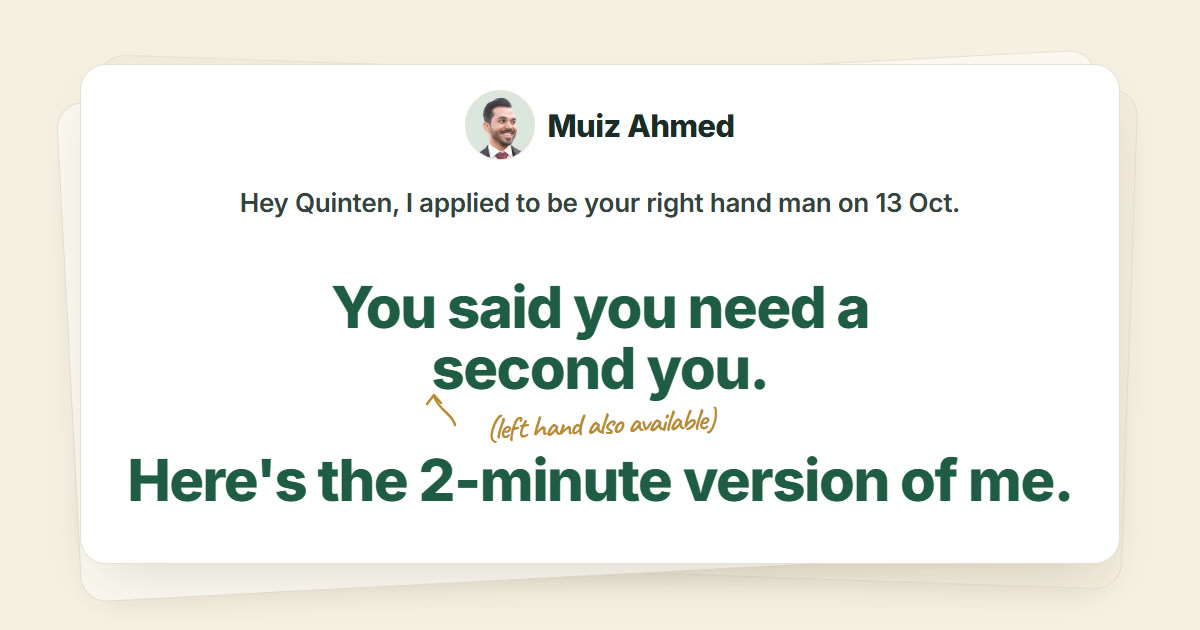
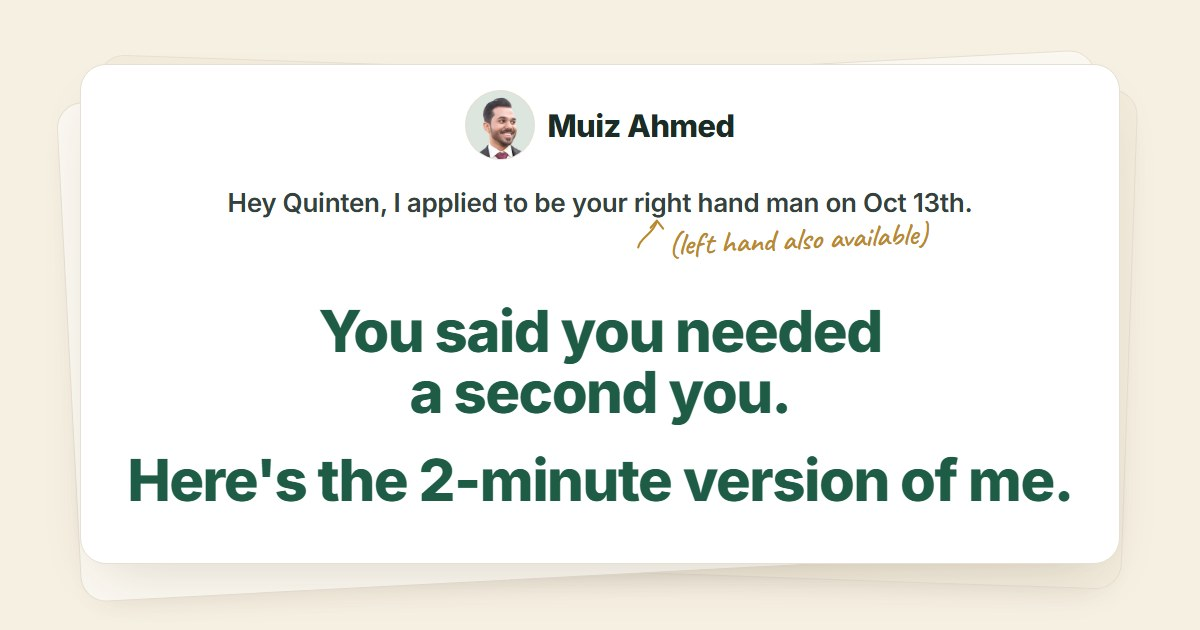
Quinten page: note on right hand man, Oct 13th, cards match Info Elevate

Changed region(s): [[0.2467, 0.4524, 0.74, 0.6937], [0.185, 0.3016, 0.8017, 0.4222], [0.4625, 0.181, 0.6167, 0.2111]]

diff --git a/for-quinten-gish/index.html b/for-quinten-gish/index.html
@@ -16,7 +16,7 @@
 <meta property="og:image:type" content="image/jpeg">
 <meta property="og:image:width" content="1200">
 <meta property="og:image:height" content="630">
-<meta property="og:image:alt" content="Muiz Ahmed: You said you need a second you. Here’s the 2-minute version of me.">
+<meta property="og:image:alt" content="Muiz Ahmed: You said you needed a second you. Here’s the 2-minute version of me.">
 <meta name="twitter:card" content="summary_large_image">
 <meta name="twitter:title" content="Muiz Ahmed for United Motion">
 <meta name="twitter:description" content="A 2-minute intro and the work I sent with my application.">
@@ -212,21 +212,23 @@
   .hero h1 { text-wrap: balance; }
   .hero h1 .h1-a, .hero h1 .h1-b { display: block; }
   .hero h1 .h1-a { font-size: max(19px, 0.42em); font-weight: 600; letter-spacing: -0.01em; line-height: 1.3; color: #33423C; text-wrap: balance; }
-  .hero h1 .h1-b { margin-top: 0.78em; }
+  .hero h1 .h1-b { margin-top: 1.05em; } /* room for the margin note hanging under "right hand man" */
   .hero h1 em { font-style: italic; padding-right: 0.04em; }
   /* handwritten margin note on "some"; absolutely placed so it never changes the H1's line breaks */
   .some { position: relative; white-space: nowrap; }
   .hero h1 .l1, .hero h1 .l2, .hero h1 .l3 { display: block; }
   .hero h1 .l1 { white-space: nowrap; }
-  .hero h1 .l3 { margin-top: 0.98em; }
+  .hero h1 .l3 { margin-top: 0.5em; }
   .hero h1 .l1 + .l2 { margin-top: 0.02em; }
-  /* handwritten margin note: hangs under "second you." (its own line, so it never overlaps other text) and points up at it */
-  .note { position: absolute; left: 50%; top: 100%; width: 0; height: 0; pointer-events: none; color: var(--gold); -webkit-text-fill-color: var(--gold); }
-  .note-arrow { position: absolute; left: -160px; top: -9px; width: 40px; height: 36px; overflow: visible; }
+  /* handwritten margin note: hangs under the start of "right hand man" in the lead-in (in the gap above the green lines) and points up at it;
+     pinned to the left edge of the phrase so it lines up wherever the lead-in wraps */
+  .rhm { position: relative; white-space: nowrap; }
+  .note { position: absolute; left: 0; top: 100%; width: 0; height: 0; pointer-events: none; color: var(--gold); -webkit-text-fill-color: var(--gold); }
+  .note-arrow { position: absolute; left: -4px; top: 0; width: 34px; height: 30px; overflow: visible; transform: scaleX(-1); }
   .note-text {
-    position: absolute; left: 0; top: 6px; transform: translateX(-50%) rotate(-2.5deg); transform-origin: center;
+    position: absolute; left: 32px; top: 11px; transform: rotate(-2.5deg); transform-origin: left center;
     font-family: "Caveat", "Segoe Print", "Bradley Hand", cursive; font-weight: 600; font-style: normal;
-    font-size: 27px; line-height: 1; letter-spacing: 0; white-space: nowrap;
+    font-size: 25px; line-height: 1; letter-spacing: 0; white-space: nowrap;
   }
   .hero-ctas { display: flex; flex-wrap: nowrap; justify-content: center; gap: 12px; margin-top: 44px; }
   @media (max-width: 520px) { .hero-ctas { flex-wrap: wrap; gap: 10px; } }
@@ -417,8 +419,8 @@
 
   /* ---------- small screens ---------- */
   @media (max-width: 640px) {
-    .note-arrow { left: -116px; top: -5px; width: 28px; height: 26px; }
-    .note-text { top: 5px; font-size: 20px; }
+    .note-arrow { left: -2px; top: 0; width: 26px; height: 23px; }
+    .note-text { left: 26px; top: 8px; font-size: 19px; }
     .wrap { padding: 0 16px; }
     .nav { top: 12px; left: 12px; right: 12px; padding: 6px 6px 6px 6px; }
     .hero { padding: 104px 0 48px; }
@@ -435,8 +437,8 @@
     .hook-label { font-size: 11px; letter-spacing: 0.06em; border-radius: 18px; text-wrap: balance; }
     .work { padding: 56px 0 80px; }
     .close { padding: 76px 0 84px; }
-    .hero h1 .h1-b { margin-top: 1.3em; }
-    .hero h1 .l3 { margin-top: 1.7em; }
+    .hero h1 .h1-b { margin-top: 1.75em; }
+    .hero h1 .l3 { margin-top: 0.6em; }
     .hero h1 { font-size: clamp(24px, 7.4vw, 66px); }
     .hero-ctas { margin-top: 36px; }
     .case { padding: 26px 24px 24px; }
@@ -477,7 +479,7 @@
     <div class="wrap">
       <div class="paper-stack">
       <div class="paper">
-      <h1 class="reveal"><span class="h1-a">Hey Quinten, I applied to be your right hand man on 13&nbsp;Oct.</span> <span class="grad h1-b"><span class="l1">You said you need a</span> <span class="l2 some">second you.<span class="note" aria-hidden="true"><svg class="note-arrow" viewBox="0 0 40 36" fill="none" stroke="currentColor" stroke-width="2.4" stroke-linecap="round" stroke-linejoin="round"><path class="draw" pathLength="1" d="M31 33 C 29 22, 14 18, 10 4"/><path class="draw" pathLength="1" d="M3 12 L 10 3 L 17 11"/></svg><span class="note-text">(left hand also available)</span></span></span> <span class="l3">Here's the 2-minute version of me.</span></span></h1>
+      <h1 class="reveal"><span class="h1-a">Hey Quinten, I applied to be your <span class="rhm">right hand man<span class="note" aria-hidden="true"><svg class="note-arrow" viewBox="0 0 40 36" fill="none" stroke="currentColor" stroke-width="2.4" stroke-linecap="round" stroke-linejoin="round"><path class="draw" pathLength="1" d="M31 33 C 29 22, 14 18, 10 4"/><path class="draw" pathLength="1" d="M3 12 L 10 3 L 17 11"/></svg><span class="note-text">(left hand also available)</span></span></span> on Oct&nbsp;13th.</span> <span class="grad h1-b"><span class="l1">You said you needed</span> <span class="l2">a second you.</span> <span class="l3">Here's the 2-minute version of me.</span></span></h1>
       <div class="hero-ctas reveal">
         <a class="btn btn-primary" href="#intro">Watch my 2-min Loom
           <svg viewBox="0 0 24 24" fill="currentColor" aria-hidden="true"><path d="M7 4.5v15l13-7.5z"/></svg>
@@ -534,7 +536,7 @@
     <div class="wrap">
       <div class="section-head reveal">
         <h2>Find my application <span class="grad">in 10 seconds.</span></h2>
-        <p class="sub">In your form responses, search for <strong class="find">Muiz Ahmed</strong>. <span class="nowrap">Submitted 13 Oct 2026.</span></p>
+        <p class="sub">In your form responses, search for <strong class="find">Muiz Ahmed</strong>. <span class="nowrap">Submitted Oct 13th, 2026.</span></p>
       </div>
       <figure class="hook reveal">
         <p class="hook-label">One of my 3 hooks for your $47 car rental course:</p>
@@ -553,15 +555,15 @@
 
       <div class="cases">
 
-        <!-- CARD 1: Lepus Prop, in-person event funnel (content from the template's Prop Firm Ready card, whose doc this is) -->
+        <!-- CARD 3: Email sequence, Prop Firm Ready (filled; ticket icon in the circle) -->
         <article class="case reveal">
           <div class="case-head">
-            <span class="initials"><img src="assets/lepus-logo.webp" srcset="assets/lepus-logo.webp 1x, assets/lepus-logo@2x.webp 2x" width="48" height="48" alt="Lepus Prop logo"></span>
+            <span class="initials" aria-hidden="true"><svg class="initials-icon" viewBox="0 0 24 24" fill="none" stroke="currentColor" stroke-width="1.8" stroke-linecap="round" stroke-linejoin="round"><path d="M3 7a2 2 0 0 1 2-2h14a2 2 0 0 1 2 2v2.5a2.5 2.5 0 0 0 0 5V17a2 2 0 0 1-2 2H5a2 2 0 0 1-2-2v-2.5a2.5 2.5 0 0 0 0-5z"/><path d="M15 7.5v9" stroke-dasharray="1.6 2.2"/></svg></span>
             <div class="case-who">
-              <p class="case-client">Lepus Prop</p>
-              <p class="case-niche">Prop Firm Ready&nbsp;&middot; <span class="nowrap">Melbourne Business School Event</span></p>
+              <p class="case-client">Prop Firm Ready</p>
+              <p class="case-niche">Melbourne Business School Event&nbsp;&middot; <span class="nowrap">via Lepus Prop</span></p>
             </div>
-            <span class="tag">Event Funnel</span>
+            <span class="tag">Email Sequence</span>
           </div>
           <span class="num grad" data-count="19.48" data-suffix="%">19.48%</span>
           <p class="statement">19.48% CTR on promo for in-person event</p>
@@ -571,7 +573,7 @@
             <li><svg viewBox="0 0 24 24" fill="none" stroke="currentColor" stroke-width="2.6" stroke-linecap="round" stroke-linejoin="round" aria-hidden="true"><path d="M5 12.5l4.5 4.5L19 7.5"/></svg>VIP tickets sold at up to AU$1,599 each</li>
           </ul>
           <div class="case-actions">
-            <a class="btn btn-primary copy-link" href="https://docs.google.com/document/d/1tKl62Nn7VwCv3D169xrN3qZo-jYXjG1fpx11b6j4qWI/edit" target="_blank" rel="noopener">See the Full Copy Doc
+            <a class="btn btn-primary copy-link" href="https://docs.google.com/document/d/1tKl62Nn7VwCv3D169xrN3qZo-jYXjG1fpx11b6j4qWI/edit?usp=sharing" target="_blank" rel="noopener">See the Full Copy Doc
               <svg viewBox="0 0 24 24" fill="none" stroke="currentColor" stroke-width="2.2" stroke-linecap="round" stroke-linejoin="round" aria-hidden="true"><path d="M7 17L17 7M9 7h8v8"/></svg>
             </a>
             <a class="btn btn-glass winning-ad" href="https://app.foreplay.co/share/ads/Rvcmz2mYDZwq4pyheMDg?user=ZBYG0mxYQSMa82dmQ5a3ll3AILu2" target="_blank" rel="noopener">My Winning Ad
@@ -580,7 +582,7 @@
           </div>
         </article>
 
-        <!-- CARD 2: Reality Cheque, founder-led statics (content from the template's Reality Cheque card, same doc) -->
+        <!-- CARD 2: Paid ads, Reality Cheque (filled) -->
         <article class="case reveal">
           <div class="case-head">
             <span class="initials"><img src="assets/rc-logo.webp" srcset="assets/rc-logo.webp 1x, assets/rc-logo@2x.webp 2x" width="48" height="48" alt="Reality Cheque logo"></span>
@@ -598,7 +600,7 @@
             <li><svg viewBox="0 0 24 24" fill="none" stroke="currentColor" stroke-width="2.6" stroke-linecap="round" stroke-linejoin="round" aria-hidden="true"><path d="M5 12.5l4.5 4.5L19 7.5"/></svg>Up to $100K in max revenue potential on the backend</li>
           </ul>
           <div class="case-actions">
-            <a class="btn btn-primary copy-link" href="https://docs.google.com/document/d/1Y_Md4IFZPUensAd-pMZE1Zz9Jwjr9vDSgDDmNVB9m_Y/edit" target="_blank" rel="noopener">See the Full Copy Doc
+            <a class="btn btn-primary copy-link" href="https://docs.google.com/document/d/1Y_Md4IFZPUensAd-pMZE1Zz9Jwjr9vDSgDDmNVB9m_Y/edit?usp=sharing" target="_blank" rel="noopener">See the Full Copy Doc
               <svg viewBox="0 0 24 24" fill="none" stroke="currentColor" stroke-width="2.2" stroke-linecap="round" stroke-linejoin="round" aria-hidden="true"><path d="M7 17L17 7M9 7h8v8"/></svg>
             </a>
             <a class="btn btn-glass live-ads" href="https://app.foreplay.co/share/boards/an5cKodP2fsMaesufx4S" target="_blank" rel="noopener">Live Ads
@@ -607,7 +609,7 @@
           </div>
         </article>
 
-        <!-- CARD 3 (bonus, not sent with the form): Lepus Prop STEP ONE webinar funnel (content from the Info Elevate card) -->
+        <!-- CARD 1: Webinar funnel, Lepus Prop Trading (filled) -->
         <article class="case reveal">
           <div class="case-head">
             <span class="initials"><img src="assets/lepus-logo.webp" srcset="assets/lepus-logo.webp 1x, assets/lepus-logo@2x.webp 2x" width="48" height="48" alt="Lepus Prop logo"></span>
@@ -625,7 +627,7 @@
             <li><svg viewBox="0 0 24 24" fill="none" stroke="currentColor" stroke-width="2.6" stroke-linecap="round" stroke-linejoin="round" aria-hidden="true"><path d="M5 12.5l4.5 4.5L19 7.5"/></svg>Bulk send promo emails and post-booking sequence</li>
           </ul>
           <div class="case-actions">
-            <a class="btn btn-primary copy-link" href="https://docs.google.com/document/d/1nbfuKC6OdCFZnc6pI__Isosu8rVg2F3lPJm0eJG5Myk/edit" target="_blank" rel="noopener">See the Full Copy Doc
+            <a class="btn btn-primary copy-link" href="https://docs.google.com/document/d/1nbfuKC6OdCFZnc6pI__Isosu8rVg2F3lPJm0eJG5Myk/edit?usp=sharing" target="_blank" rel="noopener">See the Full Copy Doc
               <svg viewBox="0 0 24 24" fill="none" stroke="currentColor" stroke-width="2.2" stroke-linecap="round" stroke-linejoin="round" aria-hidden="true"><path d="M7 17L17 7M9 7h8v8"/></svg>
             </a>
             <a class="btn btn-glass live-page" href="https://events.lepusproprietarytrading.com.au/step-one" target="_blank" rel="noopener">Live Page
@@ -643,7 +645,7 @@
   <!-- 5. Close -->
   <section class="close" id="contact">
     <div class="wrap">
-      <h2 class="reveal">Got <span class="grad">15 minutes</span> this week?</h2>
+      <h2 class="reveal">Came all the way down here? <span class="grad">You must want more.</span></h2>
       <div class="close-ctas reveal">
         <a class="btn btn-primary btn-lg close-book" href="https://calendar.app.google/YrUKNZmkdkYGUbTP8" target="_blank" rel="noopener">Book a Call
           <svg viewBox="0 0 24 24" fill="none" stroke="currentColor" stroke-width="2.2" stroke-linecap="round" stroke-linejoin="round" aria-hidden="true"><path d="M5 12h14M13 6l6 6-6 6"/></svg>
